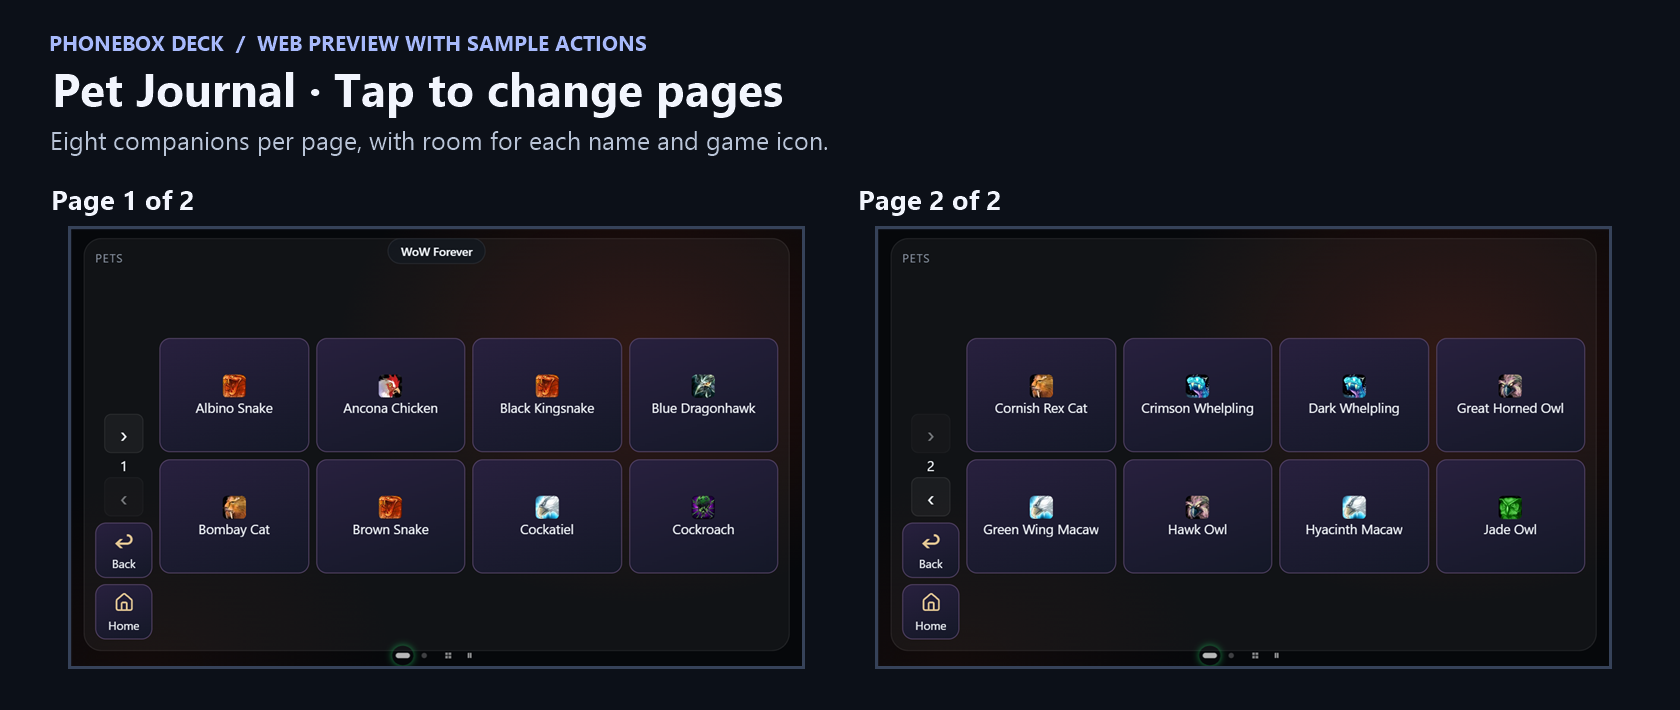
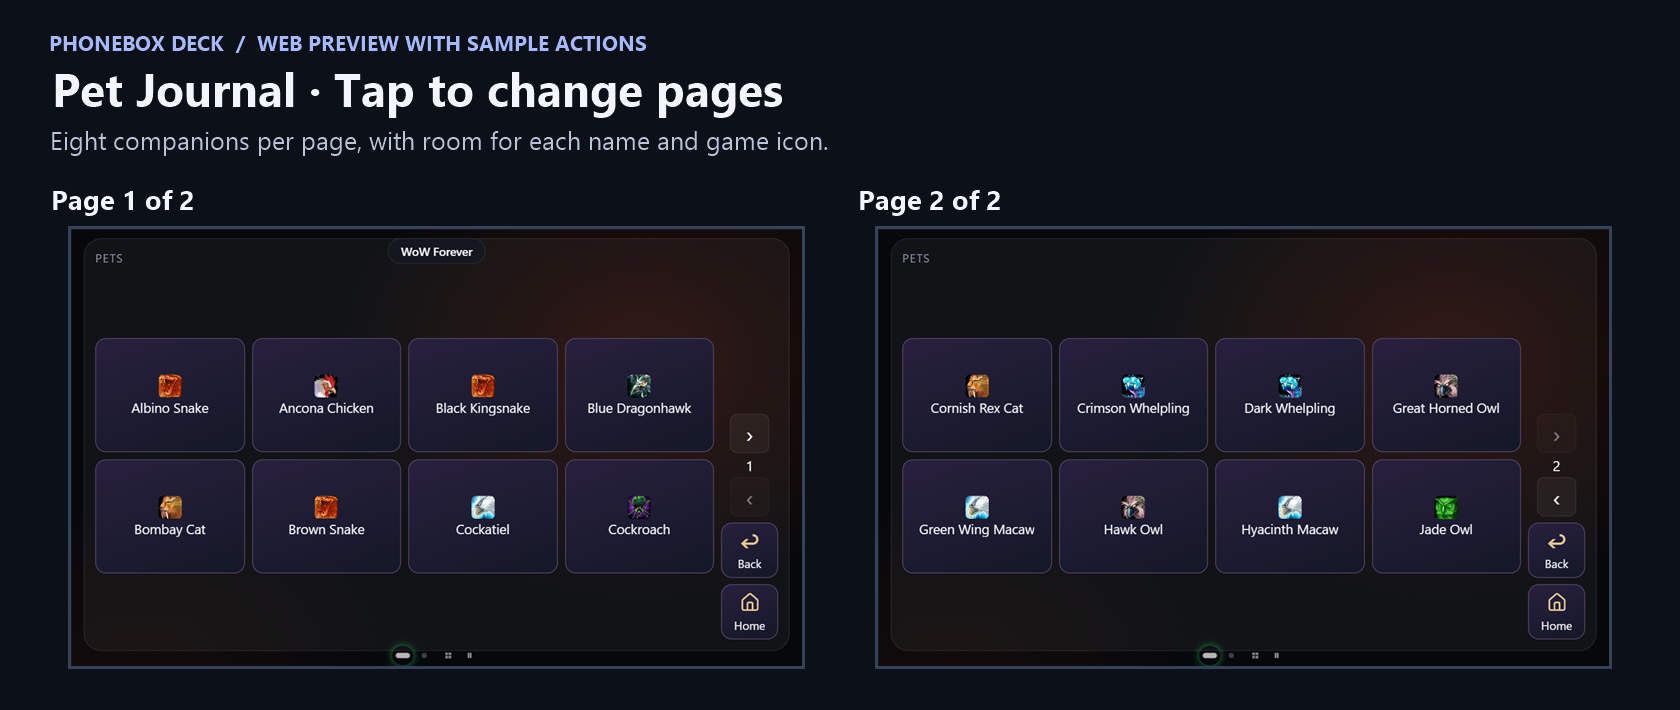
Let each WoW widget choose the Pets navigation side

Changed region(s): [[0.5262, 0.4648, 0.9595, 0.8986], [0.031, 0.4648, 0.4643, 0.8986], [0.3714, 0.6197, 0.4643, 0.8986]]

diff --git a/android/app/src/main/assets/www/style.css b/android/app/src/main/assets/www/style.css
@@ -1545,11 +1545,11 @@ body.waking::after { opacity: 0; pointer-events: auto; transition: opacity .2s e
 .ac-key-icon svg { width: 1em; height: 1em; }
 .ac-wow-icon { width: 34px; height: 34px; border-radius: 5px; display: block; object-fit: contain; }
 .ac-key-label { max-width: 100%; overflow: hidden; text-overflow: ellipsis; }
-.w.ac.ac-pet-journal.ac-docked-nav { grid-template-columns: auto minmax(0, 1fr); }
-.w.ac.ac-pet-journal.ac-docked-nav.ac-has-dial { grid-template-columns: auto minmax(0, 1fr) auto; }
-.ac-pet-journal.ac-docked-nav .ac-keys { grid-column: 2; }
-.ac-pet-journal.ac-docked-nav .ac-dial { grid-column: 3; }
-.ac-pet-journal .ac-nav-dock { grid-column: 1; justify-self: start; padding: 0 8px 0 0; }
+.w.ac.ac-pet-nav-left.ac-docked-nav { grid-template-columns: auto minmax(0, 1fr); }
+.w.ac.ac-pet-nav-left.ac-docked-nav.ac-has-dial { grid-template-columns: auto minmax(0, 1fr) auto; }
+.ac-pet-nav-left.ac-docked-nav .ac-keys { grid-column: 2; }
+.ac-pet-nav-left .ac-dial { grid-column: 3; }
+.ac-pet-nav-left .ac-nav-dock { grid-column: 1; justify-self: start; padding: 0 8px 0 0; }
 .ac-pet-pager { display: flex; flex-direction: column; align-items: center; gap: 3px; }
 .ac-pet-pager button { width: 44px; height: 44px; padding: 0; font-size: 27px; line-height: 1; }
 .ac-pet-pager button:disabled { opacity: .45; }

diff --git a/android/app/src/main/assets/www/widgets/console.js b/android/app/src/main/assets/www/widgets/console.js
@@ -242,7 +242,7 @@ W['app-console'] = {
     const home = () => {
       if (!editor.hidden) closeEditor();
       resetPetPage();
-      box.classList.remove('ac-pet-journal');
+      box.classList.remove('ac-pet-journal', 'ac-pet-nav-left');
       folder = null;
       viewState = null;
       if (queue) queue.adding = false;
@@ -294,6 +294,7 @@ W['app-console'] = {
       const pets = entry.category === 'pet';
       const docked = Boolean(navigationTiles || pets);
       box.classList.toggle('ac-pet-journal', pets);
+      box.classList.toggle('ac-pet-nav-left', pets && o.petNavSide === 'left');
       folder = entry;
       viewState = null;
       openFolders.set(wq, entry.id);

diff --git a/agent/PhoneBox.Agent/settings.html b/agent/PhoneBox.Agent/settings.html
@@ -1262,6 +1262,8 @@ function deckCols() {
 function optVal(w, o) { return w.options && o.key in w.options ? w.options[o.key] : o.default; }
 /** An option with showWhen {key, not} is drawn only while the widget's option <key> is not set to <not> (an option that does nothing while another is off is not offered). */
 function optionShown(w, d, o) {
+  if (o.key === 'petNavSide') return Array.isArray(w.options?.folders)
+    && w.options.folders.some(folder => folder?.role === 'wow-inventory' && folder.category === 'pet');
   if (!o.showWhen) return true;
   const driver = d.options.find((x) => x.key === o.showWhen.key);
   const v = driver ? optVal(w, driver) : undefined;

diff --git a/packaging/wow-preview/START-HERE.md b/packaging/wow-preview/START-HERE.md
@@ -1,4 +1,4 @@
-# PhoneBox Spellbook 1.2.1 and PhoneBox Deck 1.2.3 preview
+# PhoneBox Spellbook 1.2.1 and PhoneBox Deck 1.2.4 preview
 
 The add-on targets World of Warcraft Forever 1.60.1. This preview uses a Windows 11 x64 PC and an Android touchscreen. The Vizio XR6M10 running Android 6.0.1 was the reference device for the full interface.
 
@@ -6,7 +6,7 @@ The add-on targets World of Warcraft Forever 1.60.1. This preview uses a Windows
 
 1. Extract `PhoneBoxSpellbook-1.2.1.zip` into World of Warcraft’s `_forever_/Interface/AddOns/` folder. The game should find `AddOns/PhoneBoxSpellbook/PhoneBoxSpellbook.toc`. Restart the game if it was running.
 2. Install the **x64 .NET Desktop Runtime 10** and **x64 ASP.NET Core Runtime 10** from [Microsoft’s .NET 10 downloads](https://dotnet.microsoft.com/download/dotnet/10.0). Extract the Windows companion and double-click **Start PhoneBox WoW.cmd**. If you already have a PhoneBox agent open, exit it first so this instance can use port 8765. The launcher starts with a separate profile under `%LOCALAPPDATA%\PhoneBoxWoW`.
-3. Install the signed `PhoneBox-WoW-Android-1.2.3-preview.apk` on the Android device and open PhoneBox. This preview is signed separately from upstream builds. If Android reports a signature conflict with your existing PhoneBox, use a spare device or back up your pairing information and settings before replacing the existing install.
+3. Install the signed `PhoneBox-WoW-Android-1.2.4-preview.apk` on the Android device and open PhoneBox. This preview is signed separately from upstream builds. If Android reports a signature conflict with your existing PhoneBox, use a spare device or back up your pairing information and settings before replacing the existing install.
 4. For USB, enable **USB debugging**, use a data cable and accept the device’s authorization prompt. Install [Android SDK Platform-Tools](https://developer.android.com/tools/releases/platform-tools) and place its `platform-tools` folder in `%LOCALAPPDATA%\Android\Sdk`, or set the full `adb.exe` path in PhoneBox’s settings. You can also use `winget install -e --id Google.PlatformTools`. The PC agent handles USB forwarding after that.
 5. Log in to WoW and type `/pbspells` outside combat. This reloads the UI and saves the action list. Keep the game running at the same Windows privilege level as PhoneBox.
 6. Open `http://127.0.0.1:8765` in your PC browser. Open your deck’s **WoW Actions** folder and choose the skills, items or macros you want. Return focus to WoW before using the touchscreen. Refresh with `/pbspells` after substantial spellbook or inventory changes.
@@ -15,7 +15,7 @@ The add-on targets World of Warcraft Forever 1.60.1. This preview uses a Windows
 
 Automatic upstream updates start off so the preview stays compatible with the add-on. Use these companion files as a matched set.
 
-**Pets** shows up to eight companions at a time. Use the arrows around the page number on the left, above **Back** and **Home**, or tap a companion to summon it. A paw icon appears when game art is unavailable.
+**Pets** shows up to eight companions at a time. Use the arrows above **Back** and **Home**, or tap a companion to summon it. To change sides, select the WoW App console widget in **Settings → Pages → Layout** and choose **Pets navigation side**. The default is **Right**.
 
 On a personal phone, open PhoneBox from the app launcher. Android Back or **All pages → Close app** takes you out of the deck. For a dedicated tablet, turn on **Settings → Display → Kiosk → Open PhoneBox when the phone is plugged in** if wanted.
 

diff --git a/README.md b/README.md
@@ -6,7 +6,7 @@ I’m **OtosanX**. I forked [PhoneBox by Ersin KOÇ](https://github.com/ersinkoc
 
 ## Get started
 
-1. Install the Windows and Android companion apps from the [PhoneBox Deck 1.2.3 preview](https://github.com/OtosanX/phonebox/releases/tag/deck-preview-v1.2.3).
+1. Install the Windows and Android companion apps from the [PhoneBox Deck 1.2.4 preview](https://github.com/OtosanX/phonebox/releases/tag/deck-preview-v1.2.4).
 2. Install **PhoneBox Spellbook** for WoW Forever 1.60.1 and follow the [setup guide](packaging/wow-preview/START-HERE.md). The [add-on source](extras/wow/PhoneBoxSpellbook) is in this repository.
 3. In WoW, type `/pbspells` outside combat. In the PhoneBox web editor, open **WoW Actions → Choose actions** to pick what goes on your deck.
 
@@ -14,7 +14,7 @@ I’m **OtosanX**. I forked [PhoneBox by Ersin KOÇ](https://github.com/ersinkoc
 
 - Put learned spells, items and existing macros into folders with their in-game icons.
 - Keep form and stealth actions in their own menus. Supported stealth states switch the panel as you enter or leave stealth.
-- Open **Adventure** for your Hearthstone, fishing, food, potions and collected Pet Journal companions. Use the lower-left arrows in Pets to browse eight companions at a time. Hunters get a separate folder for active combat-pet commands.
+- Open **Adventure** for your Hearthstone, fishing, food, potions and collected Pet Journal companions. Use the arrows above Back and Home in Pets to browse eight companions at a time. Hunters get a separate folder for active combat-pet commands.
 
 ## Screenshots
 

diff --git a/docs/SCREENSHOTS.md b/docs/SCREENSHOTS.md
@@ -10,7 +10,7 @@ Captured on the same Vizio XR6M10 with WoW Forever in the foreground. The home a
 
 ## Pet Journal companions
 
-**Adventure → Pets** shows up to eight companions per page with their names and game icons. The left-hand strip stacks the Next arrow, page number, and Previous arrow above Back and Home. These previews use sample companions.
+**Adventure → Pets** shows up to eight companions per page with their names and game icons. The strip stacks the Next arrow, page number, and Previous arrow above Back and Home. The previews use the default right-hand setting and sample companions. Choose **Pets navigation side** in the WoW App console widget’s layout settings to put the strip on the left.
 
 ![Pet Journal companions and page controls in portrait](screenshots/05-pet-journal-example.png)
 
